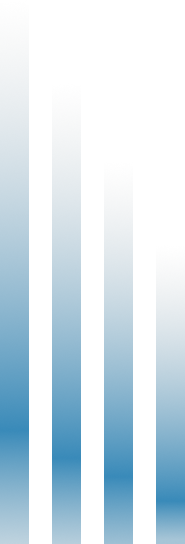
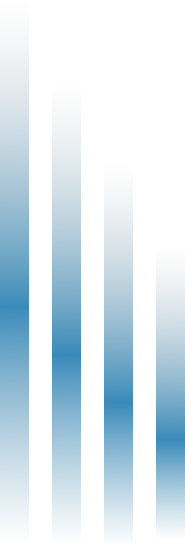
on progress

diff --git a/src/components/About/SectionTwo.js b/src/components/About/SectionTwo.js
@@ -3,48 +3,50 @@ import React from "react";
 function SectionTwo() {
   return (
     <div className="aboutpage-2">
-      <div className="like">
-        <div className="container">
-          <div className="row ">
-            <div className="col ">
-              <div className="d-flex justify-content-center pb-5 mb-3">
-                <div>
-                  <h1>
-                    Our <br />
-                    Services
-                  </h1>
-                </div>
-              </div>
+      <div className="row">
+        <div className="col-sm  ">
+          <div className="container">
+            <h2>
+              Cees have Solutions <br /> that provide your <br />
+            </h2>
+            <div className="d-flex">
+              <a class="btn  btn-danger hover-top btn-glow text-end" href="/">
+                I'm Order
+                <span className="ml-3 ">
+                  <i class="fas fa-tag"></i>
+                </span>
+              </a>
+              <a
+                class="btn  btn-secondary hover-top btn-glow text-end mx-md-2"
+                href="/"
+              >
+                I'm Order
+                <span className="ml-3 ">
+                  <i class="fas fa-tag"></i>
+                </span>
+              </a>
             </div>
-            <div className="col ">
-              <div className="d-flex justify-content-center">
-                <div>
-                  <span className="display-4">
-                    <i class="fas fa-code-branch text-secondary"></i>
-                  </span>
-                  <h6>Research</h6>
-                </div>
-              </div>
+          </div>
+        </div>
+        <div className="col-sm ">
+          <div className="row row-cols-2 row-cols-md-2 g-4 pb-4">
+            <div className="col bg-warning">
+              <i class="fa-solid fa-brush"></i>
+              <h5>
+                Customer
+                <br />
+                Assistant
+              </h5>
+              <p>Lorem ipsum, atau ringkasnya lipsum</p>
             </div>
-            <div className="col ">
-              <div className="d-flex justify-content-center">
-                <div>
-                  <span className="display-4">
-                    <i class="fas fa-swatchbook text-secondary"></i>
-                  </span>
-                  <h6>Product Design</h6>
-                </div>
-              </div>
+            <div className="col">
+              <h1>HEllo</h1>
             </div>
-            <div className="col ">
-              <div className="d-flex justify-content-center">
-                <div>
-                  <span className="display-4">
-                    <i class="fas fa-bezier-curve text-secondary"></i>
-                  </span>
-                  <h6>Visual Design</h6>
-                </div>
-              </div>
+            <div className="col">
+              <h1>HEllo</h1>
+            </div>
+            <div className="col">
+              <h1>HEllo</h1>
             </div>
           </div>
         </div>

diff --git a/src/components/About/About.js b/src/components/About/About.js
@@ -4,7 +4,6 @@ import SectionFour from "./SectionFour";
 import SectionOne from "./SectionOne";
 import SectionThree from "./SectionThree";
 import SectionTwo from "./SectionTwo";
-import SimpleSlider from "./SimpleSlider";
 
 const About = () => {
   return (
@@ -13,25 +12,24 @@ const About = () => {
         <figure class="bg-decoration-circle-left z-index-1" aria-hidden="true">
           <img
             class=""
-            src="/assets/background/About/Frames2.png"
+            src="/assets/background/About/Frames123.png"
             alt="bg"
-            width="200px"
+            width="100%"
           />
         </figure>
       </div>
       <div className="uprise">
-        <figure class="bg-decoration-circle-right z-index-1" aria-hidden="true">
+        {/* <figure class="bg-decoration-circle-right z-index-1" aria-hidden="true">
           <img
             class=""
             src="/assets/background/About/Frames1.png"
             alt="bg"
             width="200px"
           />
-        </figure>
+        </figure> */}
       </div>
       <SectionAboutZero />
       {/* <SectionOne /> */}
-      <SimpleSlider />
       <SectionTwo />
       <SectionThree />
       <SectionFour />

diff --git a/src/components/About/SectionFour.js b/src/components/About/SectionFour.js
@@ -2,14 +2,14 @@ import React from "react";
 
 function SectionFour() {
   return (
-    <div>
+    <div className="banner-map">
       <div class="container pb-5 pt-4 mt-4">
         <div className="pb-3">
           <h1 className="text-center">Lokasi kami saat ini</h1>
         </div>
         <div class="row">
           <div class="col-sm">
-            <div className="d-flex justify-content-center mt-3">
+            <div className="responsive-map d-flex justify-content-center mt-3">
               <iframe
                 className="rounded"
                 src="https://www.google.com/maps/embed?pb=!1m18!1m12!1m3!1d63188.879439919234!2d113.70701207306392!3d-8.171999945543913!2m3!1f0!2f0!3f0!3m2!1i1024!2i768!4f13.1!3m3!1m2!1s0x2dd695d6ab36ba7f%3A0xedcc47c2999d52f2!2sKec.%20Sumbersari%2C%20Kabupaten%20Jember%2C%20Jawa%20Timur!5e0!3m2!1sid!2sid!4v1644839326072!5m2!1sid!2sid"

diff --git a/src/App.css b/src/App.css
@@ -242,6 +242,7 @@ p {
   pointer-events: none;
   width: 100%;
   height: 100vh;
+  z-index: 1;
 
   overflow: hidden;
 }
@@ -267,10 +268,29 @@ p {
   display: flex;
   justify-content: center;
   align-items: center;
+  background-color: #eff3f7;
 }
 
 .uprise {
   z-index: -1;
+}
+
+.responsive-map {
+  overflow: hidden;
+  padding-bottom: 56.25%;
+  position: relative;
+  height: 0;
+}
+.responsive-map iframe {
+  left: 0;
+  top: 0;
+  height: 100%;
+  width: 100%;
+  position: absolute;
+}
+
+.border-about {
+  border-radius: 20px;
 }
 
 @media only screen and (max-width: 900px) {
